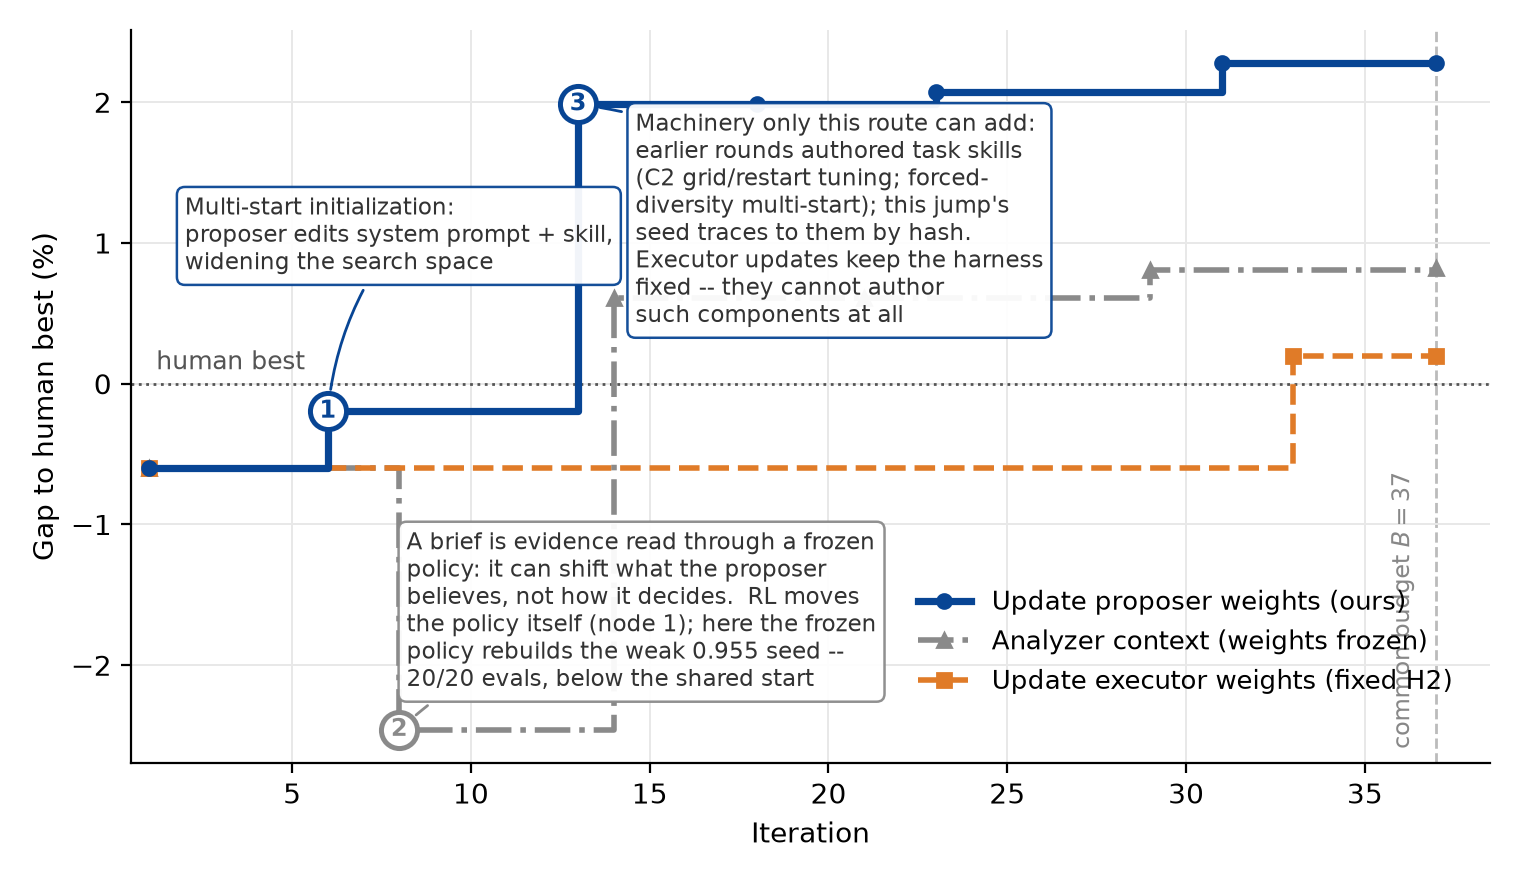
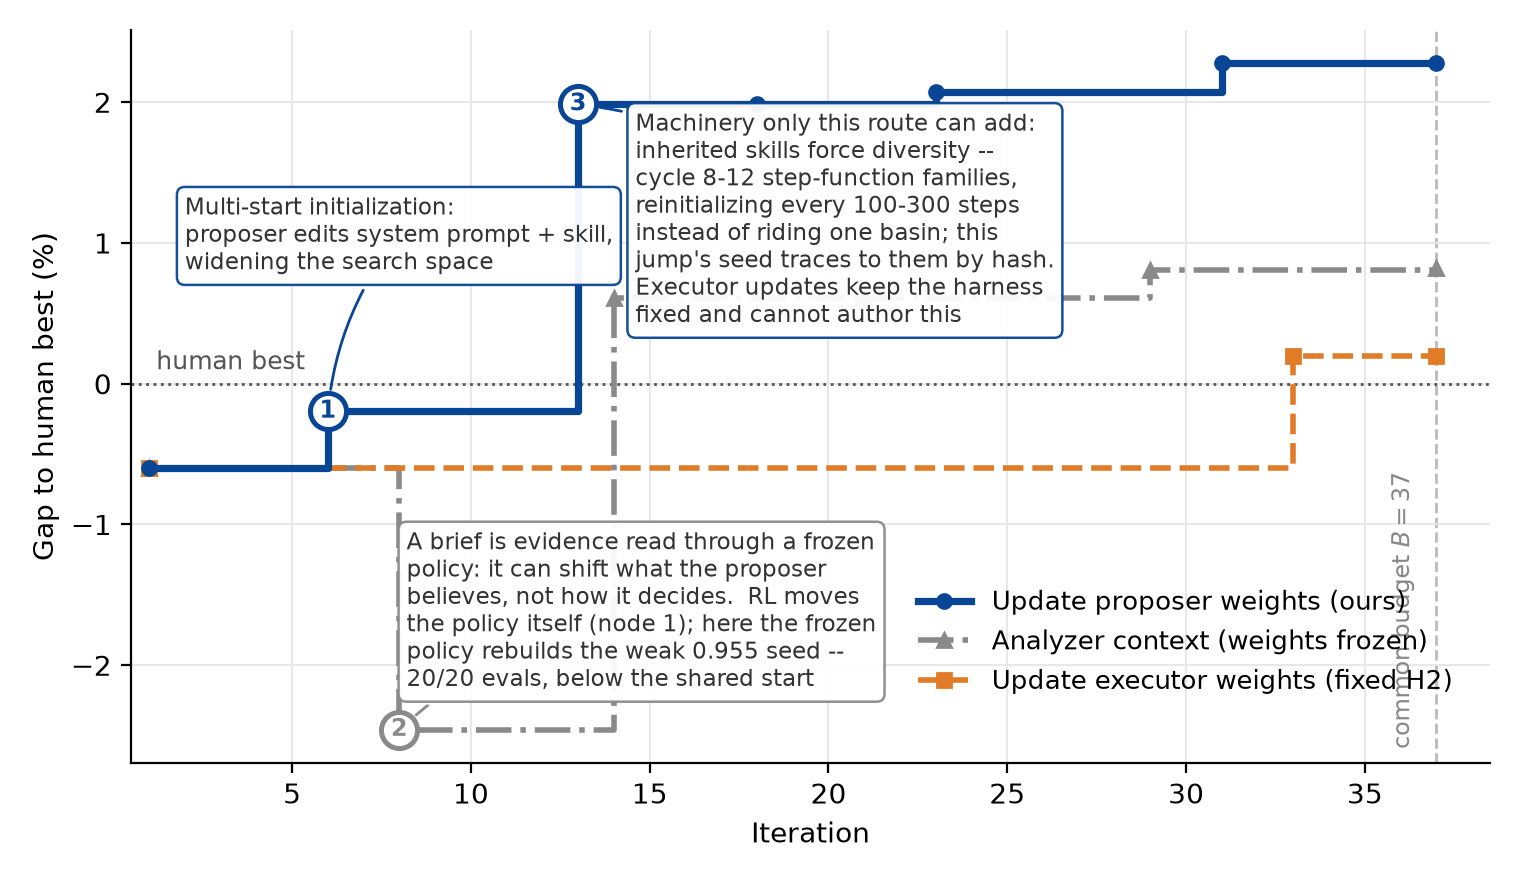
case study node 3: name the forced-diversity mechanism concretely
The inherited skills' diversity rule is program-level and specific: cycle
8-12 diverse step-function families with forced reinitialization every
100-300 optimizer steps instead of riding one basin (r020 set the restart
schedule, r036 widened the family set from 6). The box states it, keeps the
hash provenance, and keeps the executor-route contrast.

Changed region(s): [[0.402, 0.1227, 0.7112, 0.3682]]

diff --git a/scripts/draw_ac2_case_study.py b/scripts/draw_ac2_case_study.py
@@ -59,10 +59,10 @@ def _plot():
          "widening the search space",
          (2.0, 1.05)),
         (13, "proposer_full", "3",
-     "Machinery only this route can add:\nearlier rounds authored task skills\n"
-     "(C2 grid/restart tuning; forced-\ndiversity multi-start); this jump's\n"
-     "seed traces to them by hash.\nExecutor updates keep the harness\n"
-     "fixed -- they cannot author\nsuch components at all",
+     "Machinery only this route can add:\ninherited skills force diversity --\n"
+     "cycle 8-12 step-function families,\nreinitializing every 100-300 steps\n"
+     "instead of riding one basin; this\njump's seed traces to them by hash.\n"
+     "Executor updates keep the harness\nfixed and cannot author this",
      (14.6, 1.16)),
     (8, "context", "2",
          "A brief is evidence read through a frozen\npolicy: it can shift what the proposer\n"
